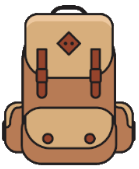
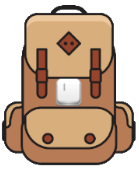
[UPDATE] event inventory

Changed region(s): [[0.4029, 0.4438, 0.6043, 0.6509]]

diff --git a/src/dialog/event_dialog.c b/src/dialog/event_dialog.c
@@ -5,17 +5,22 @@
 ** event_dialog.c
 */
 
+#include "game_macro.h"
 #include "dialog.h"
 
-void event_dialog(dialog_t *dialog)
+void event_dialog(game_t *game)
 {
-    if (dialog->check[dialog->nb].draw == 1
-        && dialog->nb_text >= dialog->nb / PERSONAGE) {
-        dialog->next++;
-        dialog->check[dialog->nb].draw = 2;
-        if (dialog->check[(dialog->nb + dialog->next)].draw == 0
-            && dialog->nb_text > dialog->nb / PERSONAGE) {
-            dialog->check[(dialog->nb + dialog->next)].draw = 1;
+    if (press(sfKeySpace)) {
+        if (game->dialog->check[game->dialog->nb].draw == 1
+            && game->dialog->nb_text >= game->dialog->nb / PERSONAGE) {
+            game->dialog->next++;
+            game->dialog->check[game->dialog->nb].draw = 2;
+            if (game->dialog->check[(game->dialog->nb
+                                                + game->dialog->next)].draw == 0
+                && game->dialog->nb_text > game->dialog->nb / PERSONAGE) {
+                game->dialog->check[(game->dialog->nb
+                                                + game->dialog->next)].draw = 1;
+            }
         }
     }
 }

diff --git a/src/inventory/event_inventory.c b/src/inventory/event_inventory.c
@@ -6,6 +6,7 @@
 */
 
 #include "game_struct.h"
+#include "game_macro.h"
 #include "inventory.h"
 
 void event_button_inventory(game_t *game)
@@ -14,15 +15,10 @@ void event_button_inventory(game_t *game)
     sfVector2f pos_bag;
     sfVector2f rec_bag;
 
-    pos_mouse = sfMouse_getPositionRenderWindow(game->window);
-    pos_bag = sfSprite_getPosition(game->inventory->button_all->sprite);
-    rec_bag.x = pos_bag.x + 139;
-    rec_bag.y = pos_bag.y + 169;
-    if ((pos_mouse.x >= pos_bag.x && pos_mouse.x <= rec_bag.x
-        && pos_mouse.y >= pos_bag.y && pos_mouse.y <= rec_bag.y)
-        && (game->inventory->button == 1))
-        game->inventory->button = 0;
-    else if (pos_mouse.x >= pos_bag.x && pos_mouse.x <= rec_bag.x
-        && pos_mouse.y >= pos_bag.y && pos_mouse.y <= rec_bag.y)
-        game->inventory->button = 1;
+    if (press(sfKeyI)) {
+        if (game->inventory->button == 1)
+            game->inventory->button = 0;
+        else
+            game->inventory->button = 1;
+    }
 }

diff --git a/src/main_scene/main_scene.c b/src/main_scene/main_scene.c
@@ -87,6 +87,7 @@ void main_scene_update(game_t *game)
     reset_value(game);
     move_dog(game->entities_list, game->player.save);
     update_object(game);
+    event_button_inventory(game);
     player_controller(game);
     player_switch_object(game->entities_list, game->player, &game->event);
     handle_player_sound(game);

diff --git a/include/dialog.h b/include/dialog.h
@@ -21,7 +21,7 @@
 int malloc_dialog(game_t *);
 
 //EVENT
-void event_dialog(dialog_t *);
+void event_dialog(game_t *);
 
 //REPLY
 int read_file(dialog_t *);
